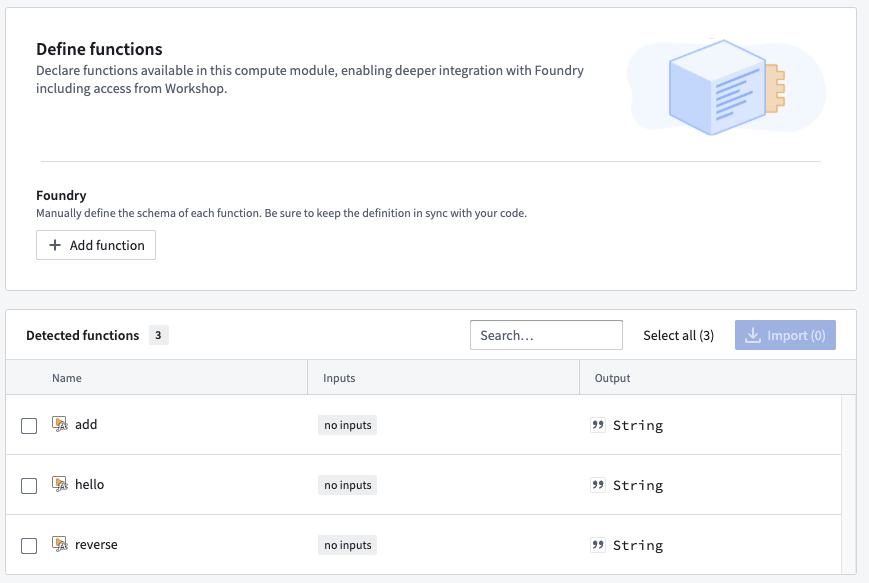
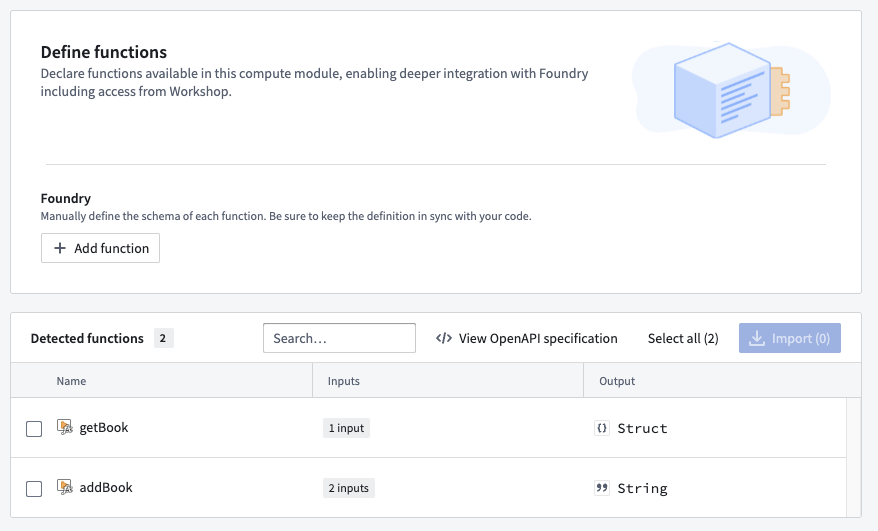
adding tutorials

diff --git a/python/creating_computemodule.md b/python/creating_computemodule.md
@@ -1,0 +1,61 @@
+
+# Create the Compute Module in Foundry
+
+## Preqs
+You must have access to a `docker-registry` or [Foundry Artifact Repository](../artifact-registry.md).
+
+
+## Module Creation
+![Module Creation](/python/static/01_modal_create.png)
+
+To create your compute module, give it a meaningful name and place it in the appropriate project for your organization. Remember, the compute module will inherit the permissions of the folder/project in which it resides.
+
+![Module Placement](/python/static/01_modal_create_2.png)
+
+## Configure Your Compute Module
+
+### Assign a Container to the Compute Module
+![Add Container](/python/static/01_add_container.png)
+
+Select the `artifact repository` and specify the container image and tag you wish to use in your compute module.
+
+### Set Runtime Container Settings
+![Runtime Settings](/python/static/01_runtime_settings.png)
+
+Configure runtime-specific parameters for your compute module, including:
+
+- Environment Variables
+- Arguments
+- Volume Mounts
+- Resource Constraints
+- Readiness Probes
+- Liveness Probes
+- Log Format/Locations
+
+### Connecting External Datasources
+![Connect Data](/python/static/01_connect_data.png)
+
+### Other Runtime Configurations
+![Other Configs](/python/static/other_configs.png)
+
+## Function Import
+
+### Swagger/OpenAPI Interface
+![Swagger Interface](/python/static/01_swagger.png)
+
+This view displays our image's `Swagger`/`OpenAPI` spec interface, showcasing the exposed RESTful interface with both functions and their respective arguments.
+
+### Automatic Function Import
+![Function Screen](/python/static/01_function_screen.png)
+
+Since we utilize an [OpenAPI](https://www.openapis.org/)-spec webserver, Foundry automatically parses the spec and imports the functions into the compute module manifest.
+
+### Walking Functions
+![](/static/01_function_walk.png)
+Once functions are imported into the compute module spec, you can walk the spec to learn more about the available integrations exposed to Foundry.
+
+
+## Testing Functions
+![REST Test](/python/static/01_rest_test.png)
+
+You can test the functionality of your image via a `POST` interface.

diff --git a/python/README.md b/python/README.md
@@ -1,53 +1,8 @@
 # Python-based Compute Module
+![](/static/build_screen.png)
 
-## Create the Compute Module in Foundry
+## Prereqs
+* [Artifact Repository Access](/../artifact-registry.md)
 
-### Module Creation
-![Module Creation](/python/static/01_modal_create.png)
-
-To create your compute module, give it a meaningful name and place it in the appropriate project for your organization. Remember, the compute module will inherit the permissions of the folder/project in which it resides.
-
-![Module Placement](/python/static/01_modal_create_2.png)
-
-## Configure Your Compute Module
-
-### Assign a Container to the Compute Module
-![Add Container](/python/static/01_add_container.png)
-
-Select the `artifact repository` and specify the container image and tag you wish to use in your compute module.
-
-### Set Runtime Container Settings
-![Runtime Settings](/python/static/01_runtime_settings.png)
-
-Configure runtime-specific parameters for your compute module, including:
-
-- Environment Variables
-- Arguments
-- Volume Mounts
-- Resource Constraints
-- Readiness Probes
-- Liveness Probes
-- Log Format/Locations
-
-### Connecting External Datasources
-![Connect Data](/python/static/01_connect_data.png)
-
-### Other Runtime Configurations
-![Other Configs](/python/static/other_configs.png)
-
-## Function Import
-
-### Swagger/OpenAPI Interface
-![Swagger Interface](/python/static/01_swagger.png)
-
-This view displays our image's `Swagger`/`OpenAPI` spec interface, showcasing the exposed RESTful interface with both functions and their respective arguments.
-
-### Automatic Function Import
-![Function Screen](/python/static/01_function_screen.png)
-
-Since we utilize an [OpenAPI](https://www.openapis.org/)-spec webserver, Foundry automatically parses the spec and imports the functions into the compute module manifest.
-
-## Testing Functions
-![REST Test](/python/static/01_rest_test.png)
-
-Once functions are imported into the compute module spec, you can test the functionality of your image via a `POST` interface.
+## Resources
+1) [Compute Module Creation](./creating_computemodule.md)
